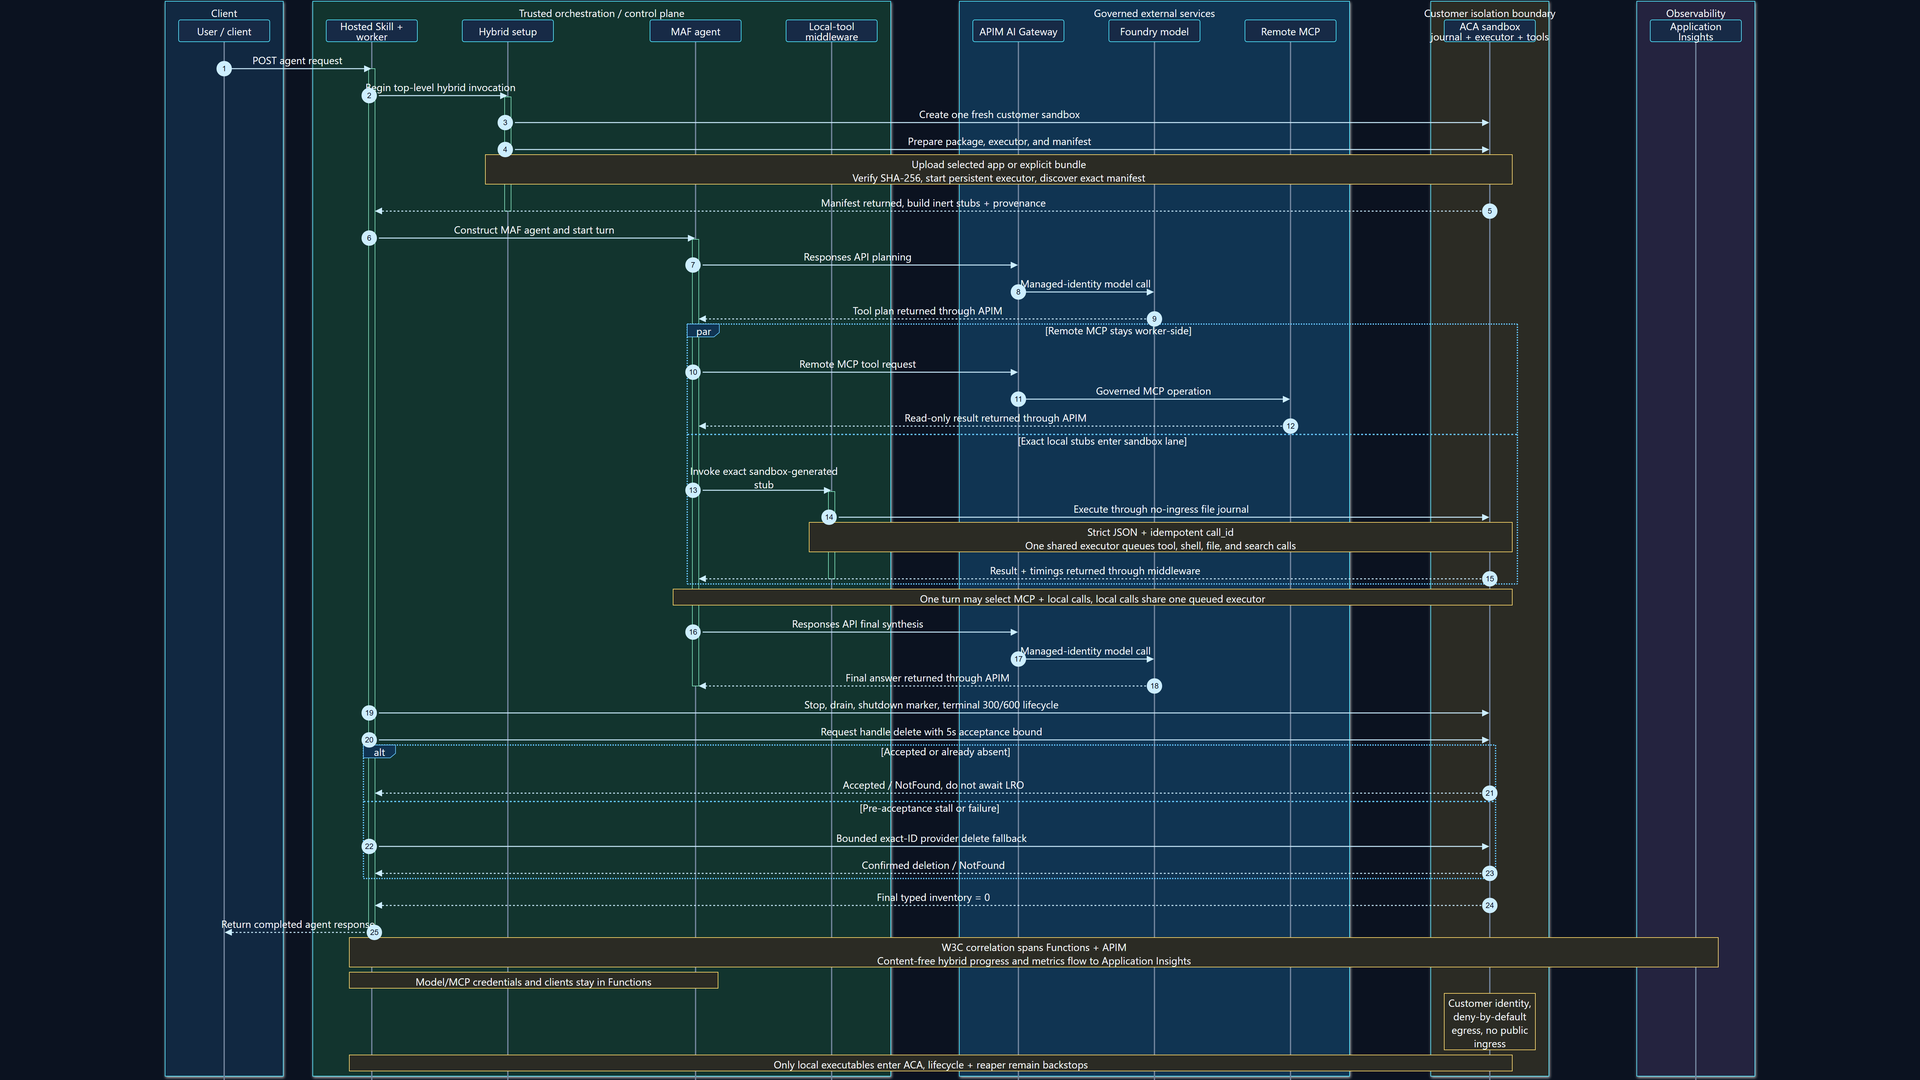
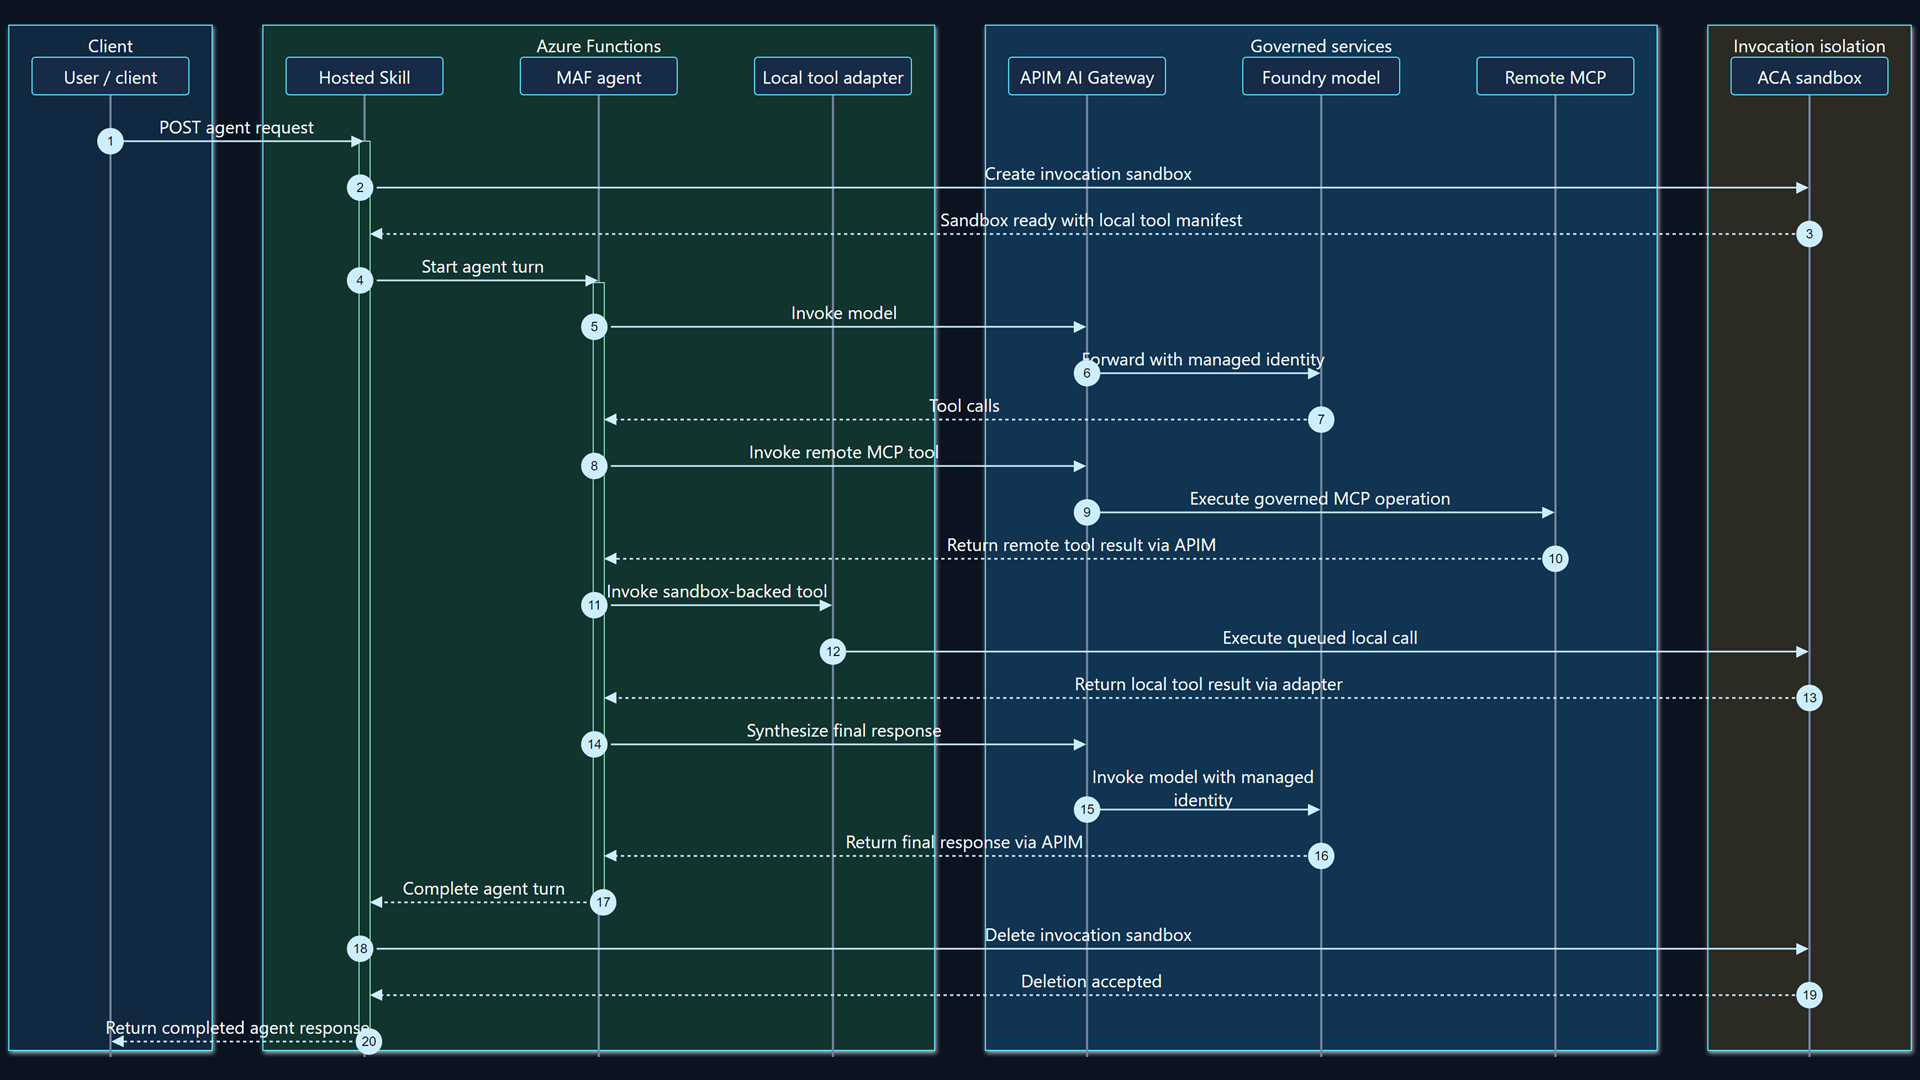
simplified diagram

diff --git a/docs/demo/hybrid-sandbox-leadership/README.md b/docs/demo/hybrid-sandbox-leadership/README.md
@@ -28,22 +28,25 @@ result, and native Application Insights Agent Trace.
 | `evidence/appinsights-agent-trace.png` | Telemetry-derived trace visualization retained as analysis |
 | `evidence/apim-foundry-mcp.png` | Live APIM policy configuration for model and MCP lanes |
 
-## Detailed request flow
+## Invocation flow
 
 [![Hybrid request flow](evidence/hybrid-request-flow.png)](evidence/hybrid-request-flow.svg)
 
 The [Mermaid source](request-flow.mmd) is authoritative because the diagram
-describes a temporal request lifecycle rather than a static component map. The
+describes the agent invocation rather than a static component map. The
 [SVG export](evidence/hybrid-request-flow.svg) preserves crisp text and lines
 for documentation and inspection; the
 [1920×1080 PNG](evidence/hybrid-request-flow.png) is the predictable,
 portable asset embedded in the PowerPoint appendix. The grouped colors mark
-client, trusted Functions control plane, governed external services, customer
-isolation, and observability trust zones.
+the client, Azure Functions, governed services, and invocation isolation
+zones. Sandbox setup internals, teardown branches, and observability details
+are intentionally omitted so the remote and local tool invocations remain
+central.
 
-The exports were generated locally with Mermaid CLI 11.12.0 and FFmpeg, without
-adding a repository dependency or contacting Azure. From the repository root
-in PowerShell, with `mmdc` 11.12.0, `ffmpeg`, and Chrome on `PATH`:
+The exports can be reproduced locally with Mermaid CLI 11.12.0 and FFmpeg,
+without adding a repository dependency or contacting Azure. From the
+repository root in PowerShell, with `mmdc` 11.12.0, `ffmpeg`, and Chrome on
+`PATH`:
 
 ```powershell
 $root = "docs\demo\hybrid-sandbox-leadership"
@@ -67,7 +70,7 @@ ffmpeg -y -v error -i $naturalPng `
 ```
 
 The Mermaid render is intentionally padded rather than cropped so the PNG
-retains every numbered interaction and note at a fixed 16:9 deck resolution.
+retains every numbered interaction at a fixed 16:9 deck resolution.
 
 The final MP4, silent master, contact sheet, raw Playwright recording, and
 redacted telemetry exports are intentionally kept outside git. The external
